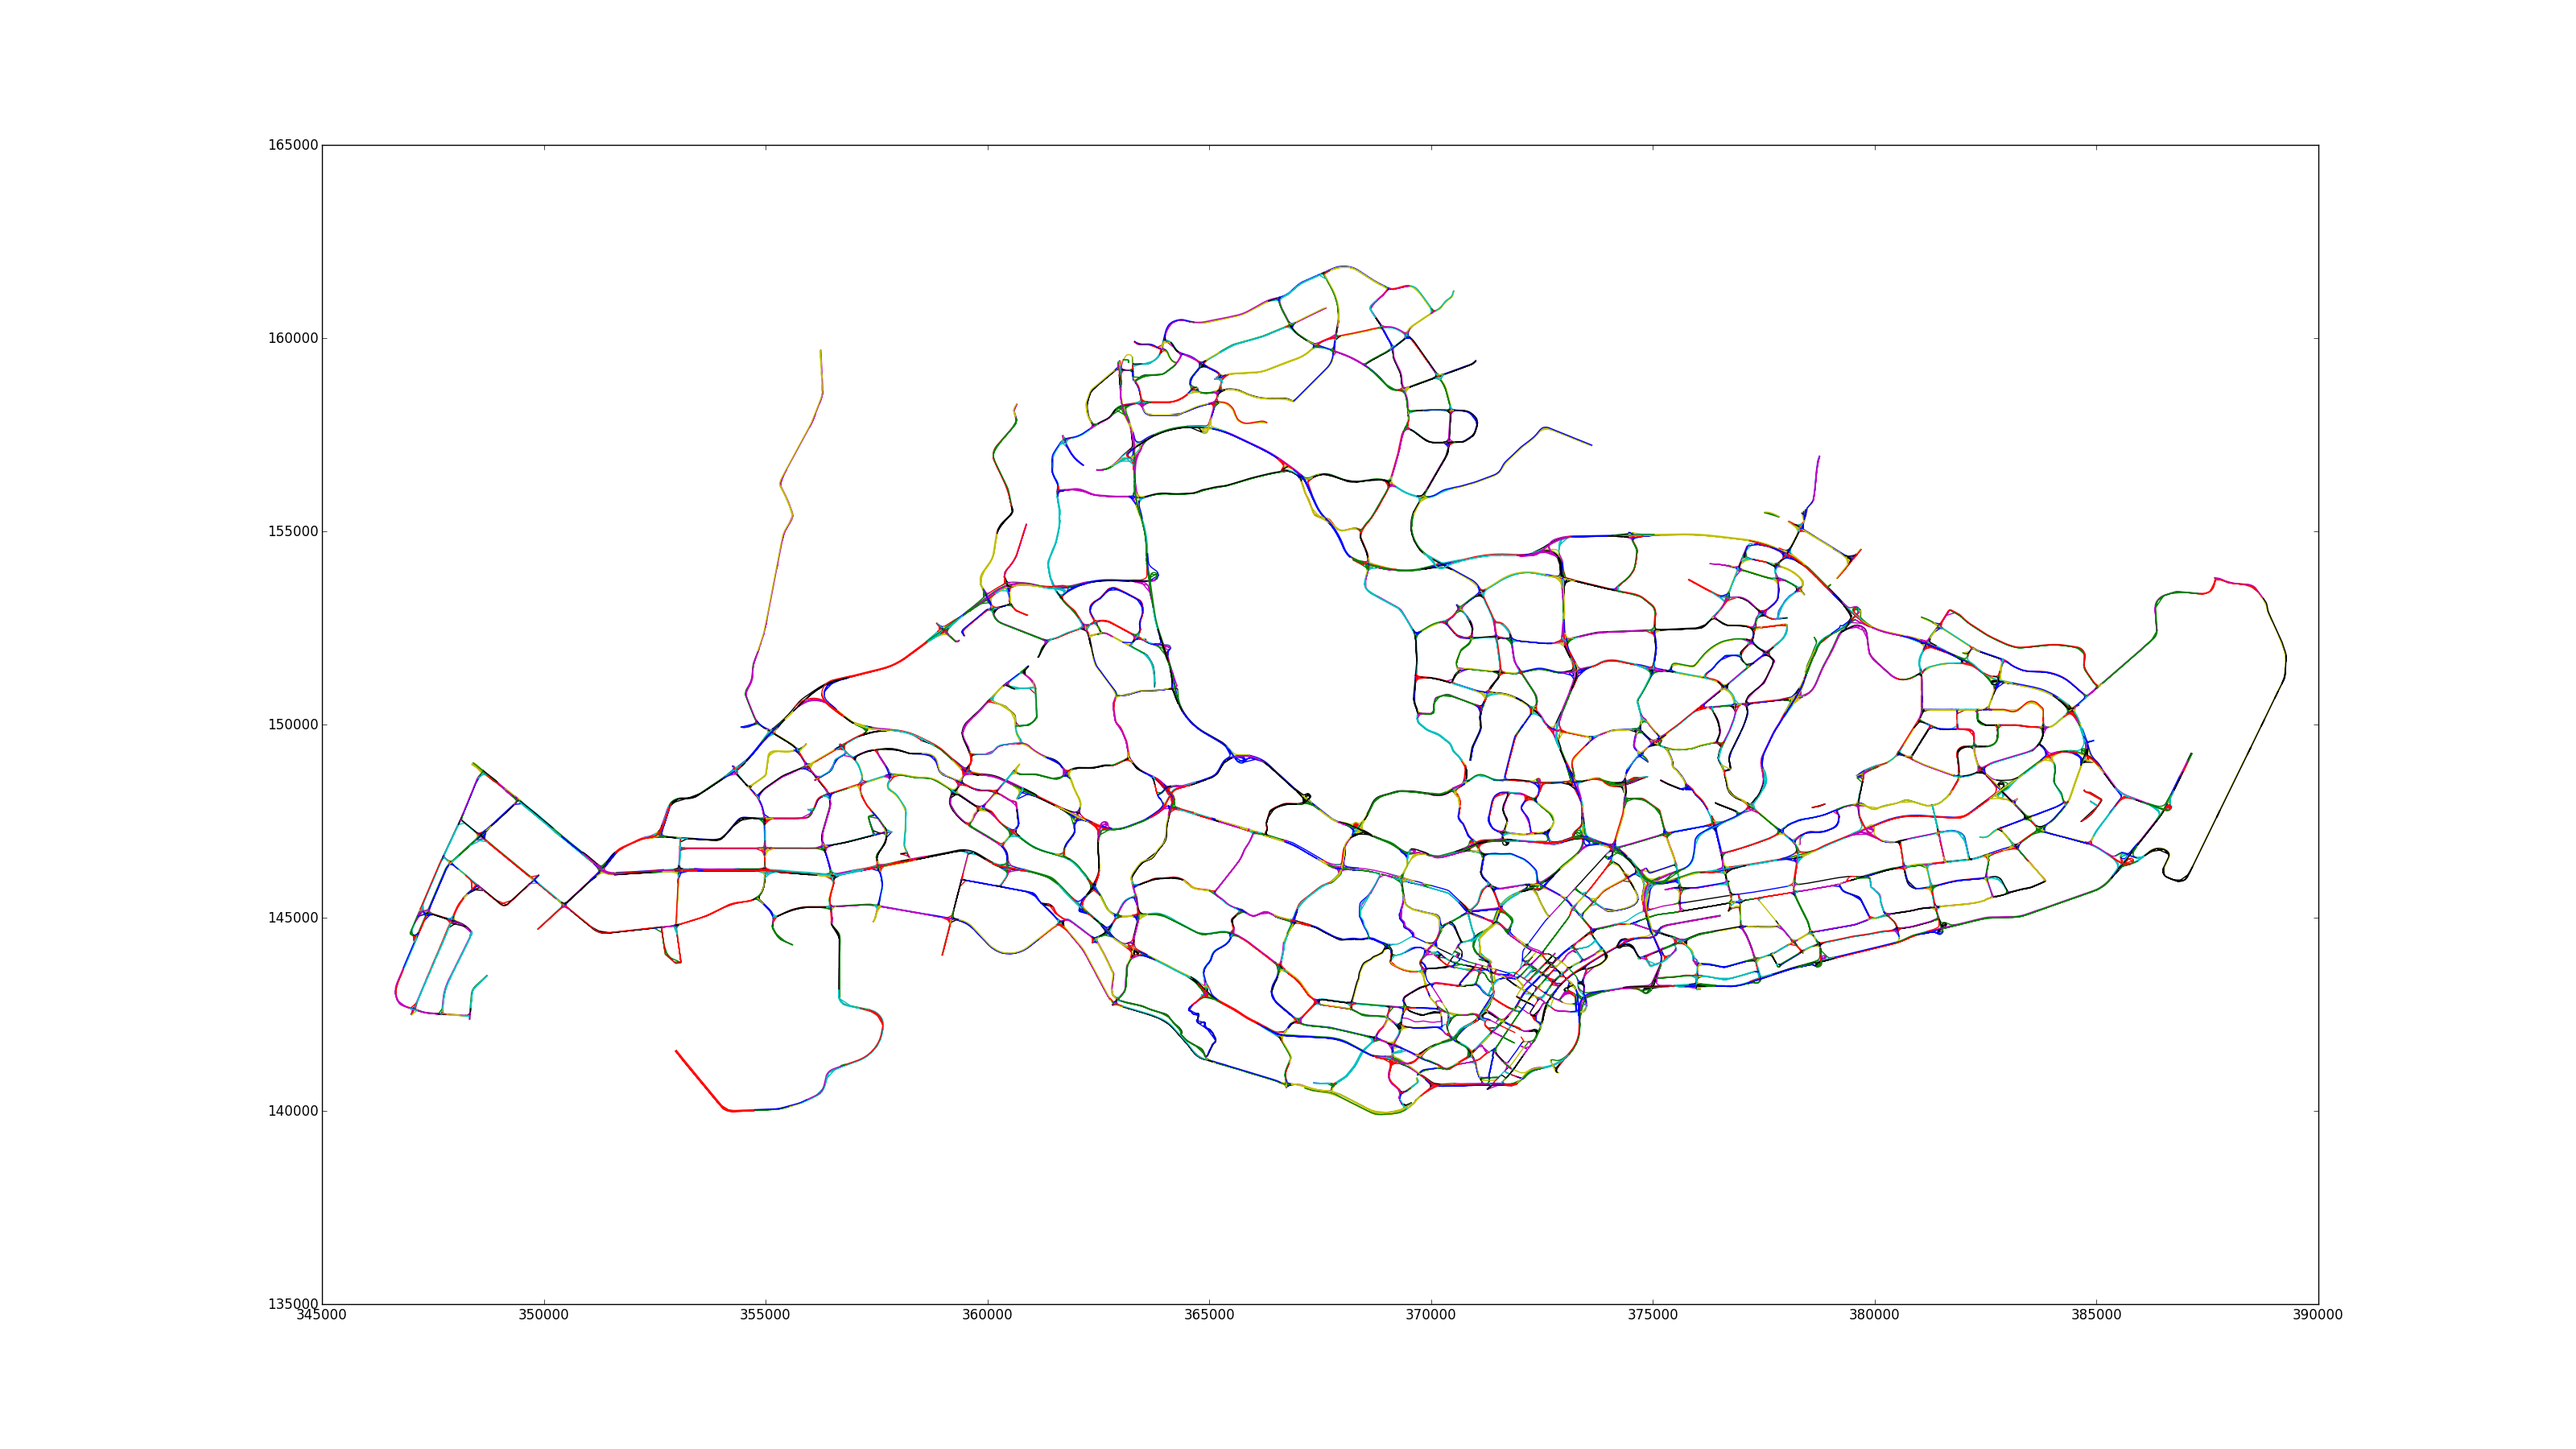
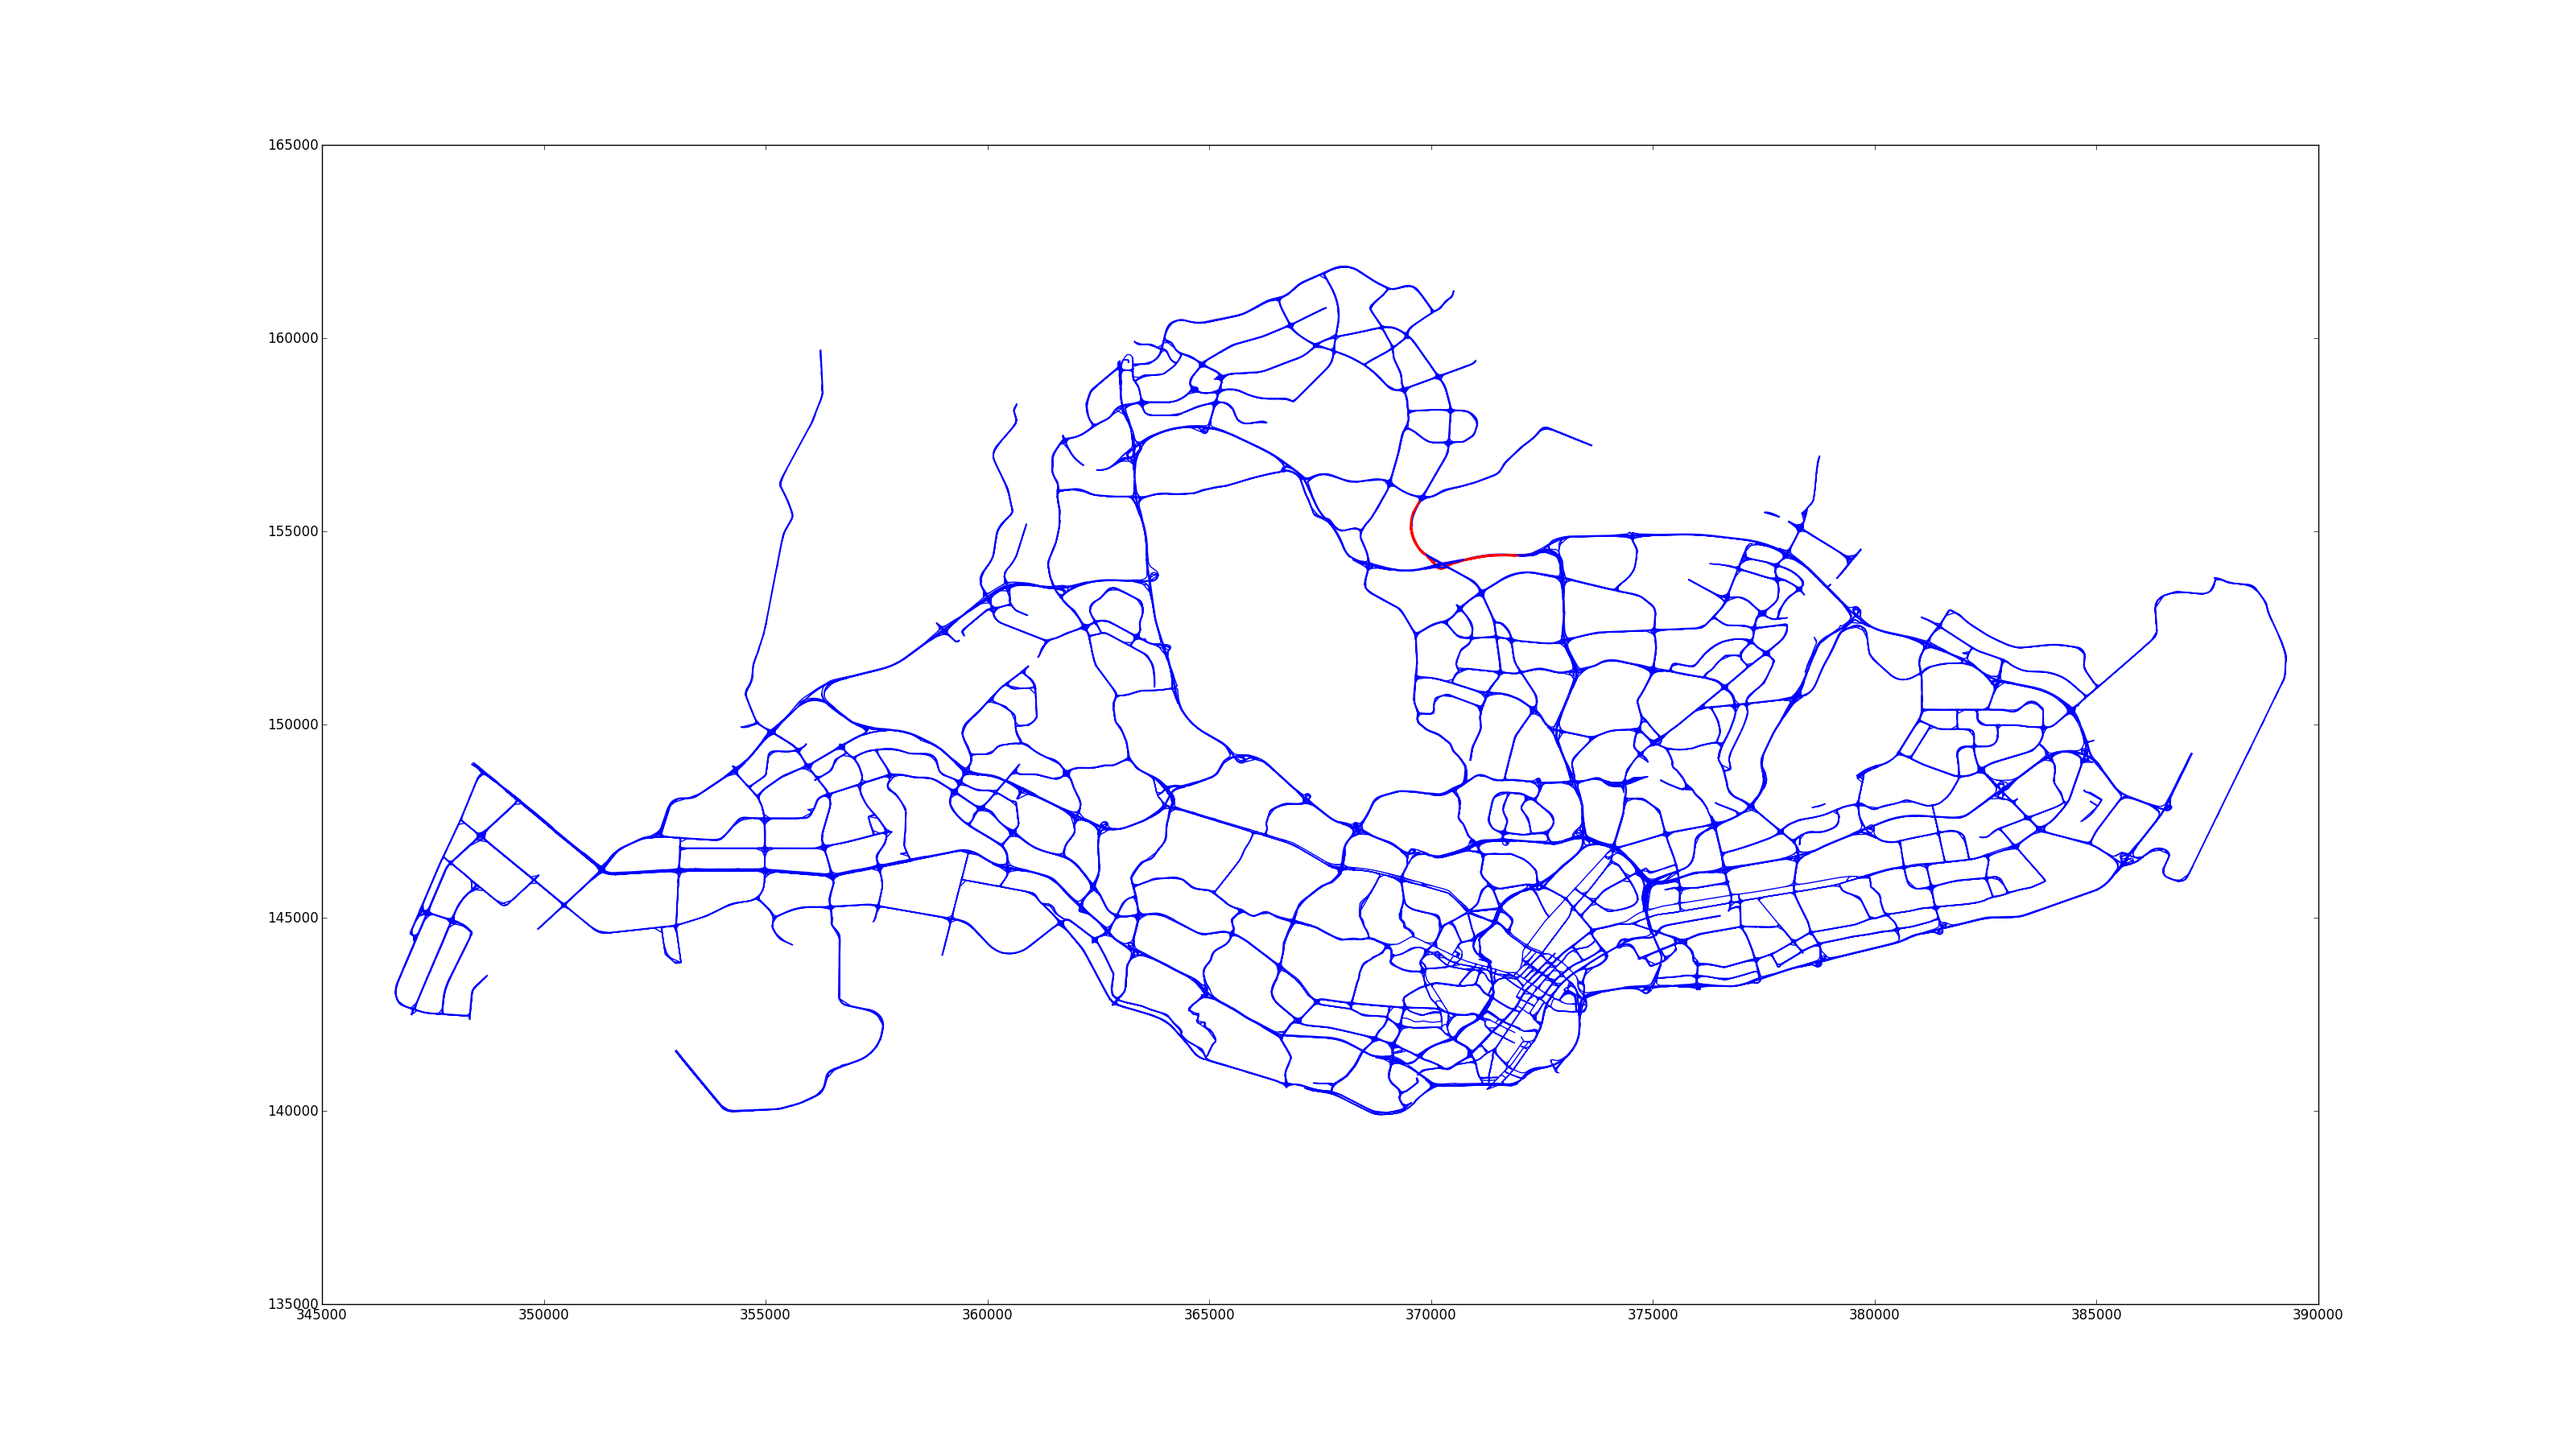
modified:   map/nxgviz.py 	modified:   map/sgp.simmob.nxg.png

diff --git a/map/nxgviz.py b/map/nxgviz.py
@@ -1,30 +1,46 @@
 import sys
 import datetime
 import argparse
+import ast
 
 import networkx as nx
 import matplotlib.pyplot as plt
 
-def do_main(fn_nxg, w=32, h=18):
+def do_main(fn_nxg, w=32, h=18, dpi=80, links=[]):
     gg = nx.read_gpickle(fn_nxg)
     src = gg.graph['Source'] if 'Source' in gg.graph else ''
     print 'G={nodes=%d, links=%d, source=%s, srid=%s, points=%d}' % (len(gg.nodes()),len(gg.edges()),src,gg.graph['SRID'],len(gg.graph['Points']))
     
-    plt.figure(figsize=(w,h))
-    pts = nx.get_edge_attributes(gg,'points')
-    for eg in pts:
-        xys = [gg.graph['Points'][p] for p in pts[eg]]
+    plt.figure(figsize=(w,h),dpi=dpi)
+    
+    for (u,v,d) in gg.edges_iter(data=True):
+        xys = [gg.graph['Points'][p] for p in d['points']]
         xs = [x for x,y in xys]
         ys = [y for x,y in xys]
-        plt.plot(xs, ys)
+        
+        if links != None and d['id'] in links:
+            plt.plot(xs, ys, 'r', linewidth=2)
+        else:
+            plt.plot(xs, ys, 'b', linewidth=1)
+          
     plt.savefig('%s.png'%(fn_nxg))
     plt.show()
 
 if __name__ == "__main__":
     parser = argparse.ArgumentParser()
-    parser.add_argument("nxg", help="NetworkX graph dump file")                  
+    parser.add_argument("nxg", help="NetworkX graph dump file")
+    
+    parser.add_argument("--width", metavar='N', type=int, default=32, help="image width in inch, default=32")
+    parser.add_argument("--height", metavar='N', type=int, default=18, help="image height in inch, default=18")
+    parser.add_argument("--dpi", metavar='N', type=int, default=80, help="image dpi, default=80")
+    parser.add_argument('--links', metavar='L', type=int, nargs='*', help='Highlight an list of link ID')
+    parser.add_argument('--links2', metavar='Ls', help='Highlight an list of link ID in \"[L,...]\"')
     args = parser.parse_args()
     
+    lks = []
+    if args.links != None: lks += args.links
+    if args.links2 != None: lks += [int(l) for l in ast.literal_eval(args.links2)]
+    
     Start = datetime.datetime.now()
-    do_main(args.nxg)
+    do_main(args.nxg, w=args.width, h=args.height, dpi=args.dpi, links=lks)
     print 'Done in %fs' %(datetime.datetime.now() - Start).total_seconds()
